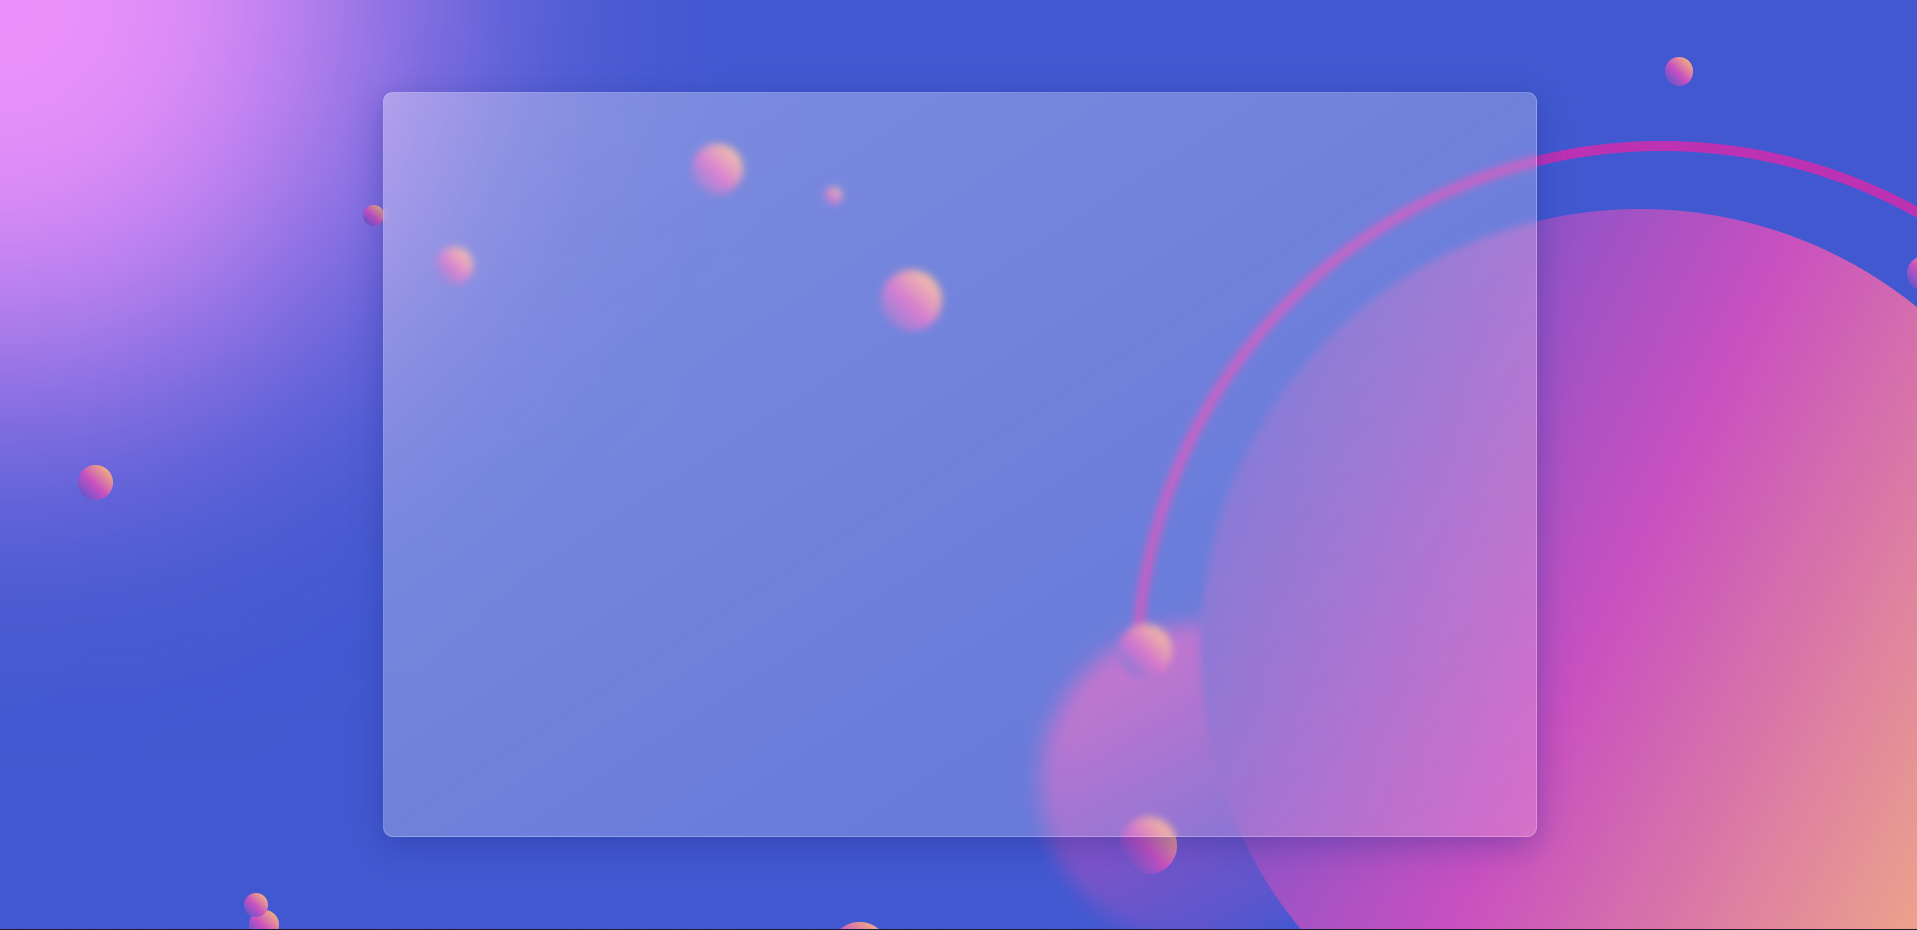
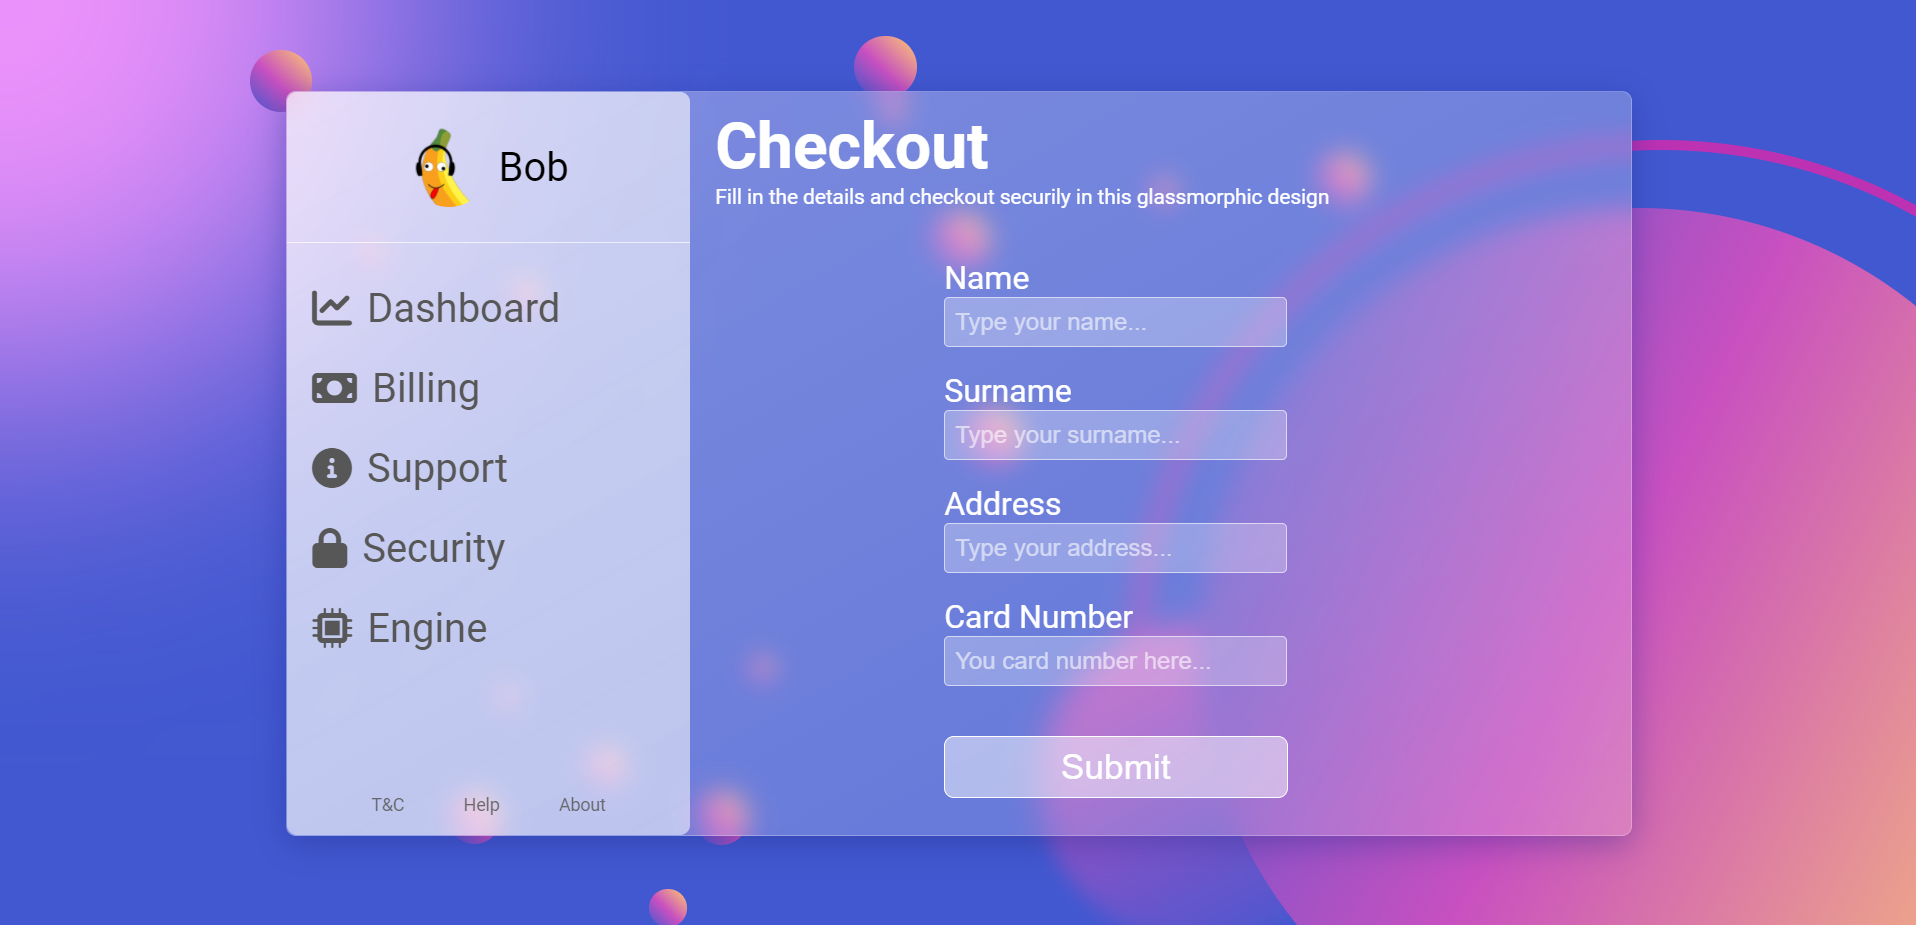
Added the dashboard

diff --git a/index.css b/index.css
@@ -23,7 +23,7 @@ main
         rgb(255 255 255 / 17%)
     );
     box-shadow: 0 8px 32px 0 rgba( 31, 38, 135, 0.37 );
-    backdrop-filter: blur( 4px );
+    backdrop-filter: blur( 13px );
     -webkit-backdrop-filter: blur( 4px );
     border-radius: 10px;
     border: 1px solid rgba( 255, 255, 255, 0.18 );
@@ -174,3 +174,99 @@ footer a:hover
     text-decoration: underline;
     opacity:1;
 }
+
+section
+{
+    display:inline-block;
+    vertical-align: top;
+}
+
+.content
+{
+    width:70%;
+    min-height:80vh;
+    max-height:100%;
+    padding-left:25px;
+    box-sizing: border-box;
+}
+
+.content
+{
+    color:white;
+}
+.content h1
+{
+    font-size:4rem;
+    margin:15px 0 0 0;
+}
+.content p
+{
+    margin:0;
+    font-size:1.3rem;
+}
+
+
+
+form
+{
+    width:50%;
+    margin:0 auto;
+}
+
+.first
+{
+    margin-top:50px;
+}
+
+label
+{
+    display: block;
+    font-size:2rem;
+    margin-top:25px;
+}
+
+input
+{
+    font-size:1.5rem;
+    border:1px solid white;
+    border-radius:5px;
+    backdrop-filter: blur(5px);
+    background-color:rgb(255 255 255 / 20%);;
+    opacity:0.7;
+    padding:10px;
+    width:70%;
+}
+
+button
+{
+    display:block;
+    font-size:2.2rem;
+    margin-top:50px;
+    width: 75%;
+    padding:10px;
+    border-radius:10px;
+    border:1px solid white;
+    cursor:pointer;
+    background-color:rgb(255 255 255 / 17%);
+    backdrop-filter: blur(5px);
+    color:white;
+    transition:all 0.3s;
+}
+
+button:hover
+{
+    background-color:rgb(255 255 255 / 40%);
+}
+
+::placeholder { /* Chrome, Firefox, Opera, Safari 10.1+ */
+    color: white;
+    opacity: 1; /* Firefox */
+  }
+  
+  :-ms-input-placeholder { /* Internet Explorer 10-11 */
+    color: white;
+  }
+  
+  ::-ms-input-placeholder { /* Microsoft Edge */
+    color: white;
+  }

diff --git a/index.html b/index.html
@@ -52,6 +52,26 @@
                 <a href="#">Help</a>
                 <a href="#">About</a>
             </footer>
+        </section
+        ><section class = "content">
+            <h1>Checkout</h1>
+            <p>Fill in the details and checkout securily in this glassmorphic design</p>
+
+            <form>
+                <label for = "name" class = "first">Name</label>
+                <input placeholder="Type your name..." type = "text" name = "name" />
+
+                <label for = "surname">Surname</label>
+                <input placeholder="Type your surname..." type = "text" name = "surname" />
+
+                <label for = "address">Address</label>
+                <input placeholder="Type your address..." type = "text" name = "address" />
+
+                <label for = "card">Card Number</label>
+                <input placeholder="You card number here..." type = "text" name = "card" />
+
+                <button>Submit</button>
+            </form>
         </section>
     </main>
 </body>
